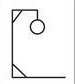
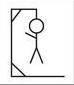
need to update images now

Changed region(s): [[0.1081, 0.0952, 0.8919, 0.9524], [0.0, 0.0, 1.0, 1.0]]

diff --git a/src/_03_Hangman/Hangman.java b/src/_03_Hangman/Hangman.java
@@ -21,8 +21,14 @@ import javax.swing.JTextField;
 public class Hangman implements KeyListener {
 	
 	Stack<String> words = new Stack<String>();
-	String text = "";
+	StringBuilder text = new StringBuilder("");
 	String word = "";
+	JTextField textfield;
+	JLabel incorrect;
+	String incorrectLetters;
+	JLabel letters;
+	int hp;
+	
 	
 	public void setup(Utilities utilities) {
 		
@@ -47,8 +53,8 @@ public class Hangman implements KeyListener {
 	
 	 void createDisplay(String word) {
 		 System.out.println(word);
-		 int strikes = 0;
-		 String incorrectLetters = "";
+		 hp = 6;
+		 incorrectLetters = "";
 		 
 		JFrame frame = new JFrame();
 		frame.setVisible(true);
@@ -56,16 +62,16 @@ public class Hangman implements KeyListener {
 		JPanel middlePanel = new JPanel();
 		JPanel bottomPanel = new JPanel();
 		JLabel image = new JLabel();
-		JLabel letters = new JLabel();
-		JLabel incorrect = new JLabel();
+		letters = new JLabel();
+		incorrect = new JLabel();
 		JPanel topPanel = new JPanel();
 		
 		JLabel space = new JLabel();
 		JLabel guess = new JLabel();
-		JTextField textfield = new JTextField();
+		textfield = new JTextField();
 		textfield.addKeyListener(this);
 		
-		incorrect.setText(" Strikes: " + strikes);
+		incorrect.setText(" HP: " + hp);
 		letters.setText("<html> Incorrect: <br/>" + incorrectLetters + "</html>");
 		guess.setText("Guess: ");
 		textfield.setPreferredSize(new Dimension(25, 25));
@@ -86,17 +92,18 @@ public class Hangman implements KeyListener {
 		
 		
 		for(int i = 0; i< word.length(); i++) {
-			text = text + "_ ";
+			text = text.append("_ ");
+					//+ "_ ";
 		}
 		//add images
 		/*if() {
 			
 		}*/
-		image.setIcon(loadImage(0));
+		image.setIcon(loadImage(6));
 		image.setAlignmentX(Component.CENTER_ALIGNMENT);
 		
 		
-		blanks.setText(text);
+		blanks.setText(text.toString());
 		blanks.setAlignmentX(Component.CENTER_ALIGNMENT);
 		space.setText("  ");
 
@@ -105,6 +112,7 @@ public class Hangman implements KeyListener {
 	
 	public ImageIcon loadImage(int num) {
 		String hangmanfile = "Hangman_" + num + ".jpg";
+		System.out.println(hangmanfile);
 		try {
 			return new ImageIcon(ImageIO.read(new Hangman().getClass().getResourceAsStream(hangmanfile)));
 		} catch (IOException e) {
@@ -114,7 +122,10 @@ public class Hangman implements KeyListener {
 	}
 	
 	public void updateDisplay() {
-		blanks.setText(text);
+		textfield.setText("");
+		blanks.setText(text.toString());
+		incorrect.setText(" HP: " + hp);
+		letters.setText("<html> Incorrect: <br/>" + incorrectLetters + "</html>");
 	}
 	
 	public void updateScores () {
@@ -131,37 +142,37 @@ public class Hangman implements KeyListener {
 	@Override
 	public void keyTyped(KeyEvent e) {
 		// TODO Auto-generated method stub
+		boolean correct = false;
 		System.out.println("yes1: " + e.getKeyChar());
 		char[] wordChar = word.toCharArray();
-		char[] textChar = text.toCharArray();
-		ArrayList<Character> textArray = new ArrayList<Character>();
 		
 		System.out.println(wordChar.length);
 		for(int i = 0; i<wordChar.length; i++) {
 			System.out.println("hi: "+ wordChar[i]);
-			textArray.add(wordChar[i]);
+			String c = "" + e.getKeyChar();
 		if(e.getKeyChar()==(wordChar[i])){
+			correct = true;
 			System.out.println("yes2");
-			String c = "" + wordChar[i];
-			System.out.println("letter: " + c);
-			/*
-			 * 
-			 *   -----
-			 *   01234
-			 *   ----n
-			 */  
-			textArray.remove(i);
-			textArray.add(i, wordChar[i]);
 			
-//			wut is happening???
-			for(int k = 0; k < textArray.size(); k++) {
-				text += textArray.get(k).toString();
-			}
+			System.out.println("letter: " + e.getKeyChar());
+			
+			
+			text.replace(i*2, (i*2)+1, c);
+
 			System.out.println("text: " + text);
-			updateDisplay();
+	
+		}
+	
 		}
 		
-		}
+			if(!correct) {
+				System.out.println("INCORRECT LETTER!!!");
+				hp -= 1 ;
+				incorrectLetters += e.getKeyChar() + ", ";
+			}
+		
+		updateDisplay();
+		
 	}
 
 	@Override
